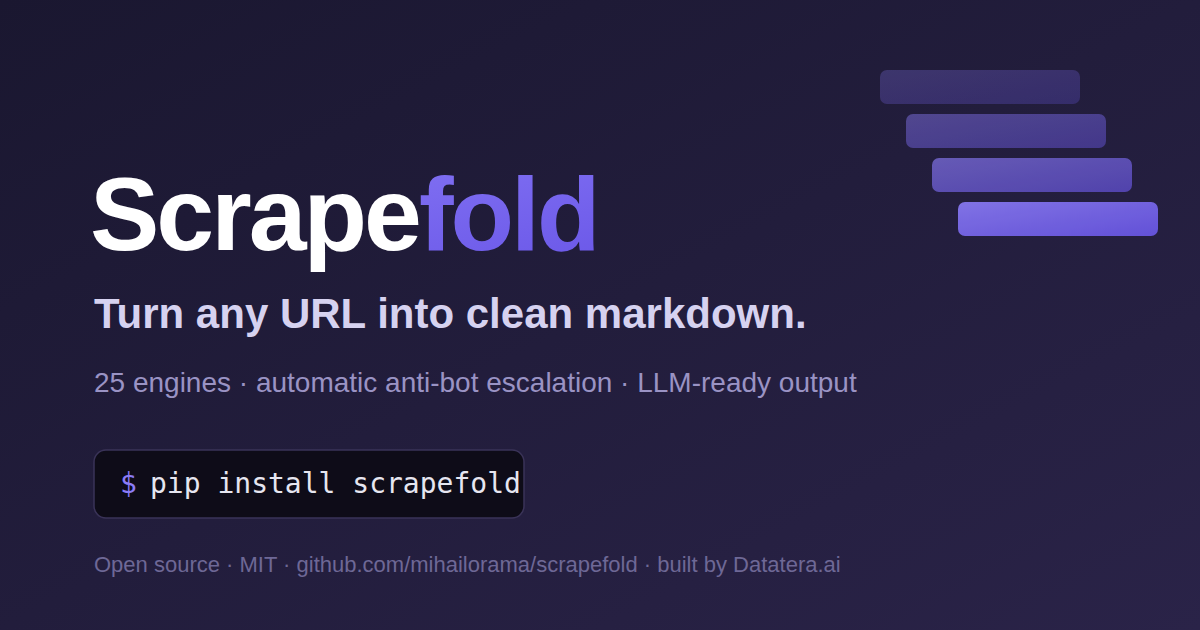
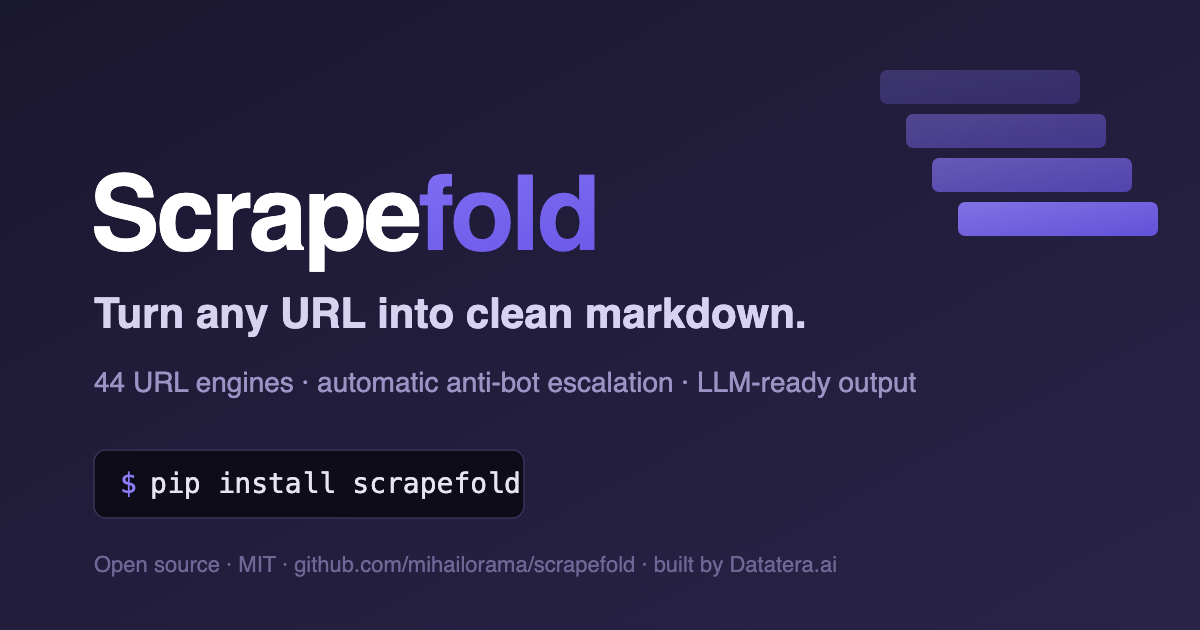
docs: state the real URL engine count (44) everywhere (SCRAPEFOLD-34)
scrapefold.com said 39 URL engines in its title, meta and hero and 42 in the
stats row; README, docs and llms.txt said 39 and AGENTS.md 43. The registry
(list_engine_names(), aliases excluded) has 44.

- All counts now read 44; landing grid gains pydoll, Camoufox, Scrapingdog
  dedicated and LinkedIn public so it lists all 44.
- Landing stats row: v0.12.0 -> v0.15.0, 12 -> 18 Enrichfold search engines
  (Enrichfold 0.9.0 registry).
- Social card SVG and PNG: 25 engines -> 44 URL engines.
- Smoke test ties every stated count, the grid and the landing version to the
  registry and __version__.

Claude-Session: https://claude.ai/code/session_01DuCvrUkUQ79exr9fVfTPQm

diff --git a/docs/index.html b/docs/index.html
@@ -4,19 +4,19 @@
 <meta charset="utf-8">
 <meta name="viewport" content="width=device-width, initial-scale=1">
 <title>Scrapefold — turn any URL into clean markdown</title>
-<meta name="description" content="One async Python interface over 39 URL engines, with automatic anti-bot escalation and LLM-ready markdown output. Search delegates to Enrichfold. Open source, MIT.">
+<meta name="description" content="One async Python interface over 44 URL engines, with automatic anti-bot escalation and LLM-ready markdown output. Search delegates to Enrichfold. Open source, MIT.">
 <link rel="icon" type="image/svg+xml" href="assets/favicon.svg">
 <link rel="canonical" href="https://scrapefold.com/">
 
 <!-- Open Graph / Twitter -->
 <meta property="og:type" content="website">
 <meta property="og:title" content="Scrapefold — turn any URL into clean markdown">
-<meta property="og:description" content="39 URL engines plus Enrichfold-backed search, with automatic anti-bot escalation and LLM-ready output.">
+<meta property="og:description" content="44 URL engines plus Enrichfold-backed search, with automatic anti-bot escalation and LLM-ready output.">
 <meta property="og:url" content="https://scrapefold.com/">
 <meta property="og:image" content="https://scrapefold.com/assets/social-card.png">
 <meta name="twitter:card" content="summary_large_image">
 <meta name="twitter:title" content="Scrapefold — turn any URL into clean markdown">
-<meta name="twitter:description" content="39 URL engines plus Enrichfold-backed search, with automatic anti-bot escalation and LLM-ready output.">
+<meta name="twitter:description" content="44 URL engines plus Enrichfold-backed search, with automatic anti-bot escalation and LLM-ready output.">
 <meta name="twitter:image" content="https://scrapefold.com/assets/social-card.png">
 
 <style>
@@ -213,7 +213,7 @@
 <header class="hero" id="top">
   <img class="logo" src="assets/logo-dark.svg" alt="Scrapefold">
   <h1>Turn any URL into clean markdown.</h1>
-  <p class="tag">One async Python interface over <strong>39 URL engines</strong> — with automatic anti-bot escalation and LLM-ready output. Search powered by Enrichfold. Open source, MIT.</p>
+  <p class="tag">One async Python interface over <strong>44 URL engines</strong> — with automatic anti-bot escalation and LLM-ready output. Search powered by Enrichfold. Open source, MIT.</p>
 
   <div class="agent-cta">
     <button class="btn btn-primary btn-lg" id="agentPrompt" title="Click to copy"
@@ -229,7 +229,7 @@
     </button>
   </div>
 
-  <p class="stats"><strong>v0.12.0</strong> · <strong>42 URL engines</strong> · <strong>12 search engines via Enrichfold</strong> · <strong>MIT</strong></p>
+  <p class="stats"><strong>v0.15.0</strong> · <strong>44 URL engines</strong> · <strong>18 search engines via Enrichfold</strong> · <strong>MIT</strong></p>
   <p class="hero-links"><a href="https://github.com/mihailorama/scrapefold">⭐ Star on GitHub</a> · <a href="https://pypi.org/project/scrapefold/">PyPI</a></p>
 
   <div class="hero-demo">
@@ -302,7 +302,7 @@ page = <span class="k">await</span> scrape(hits[0].url, ScrapeOptions(engines=("
 
 <section id="engines">
   <div class="wrap">
-    <h2>39 URL engines, one interface</h2>
+    <h2>44 URL engines, one interface</h2>
     <p class="lead">Local engines are free and fast; SaaS engines add premium proxies and stealth. The router picks the cheapest tier that works. Ratings: ★★★ excellent · ★★☆ good · ★☆☆ basic.</p>
     <div class="engines">
       <div class="engine"><span class="name">requests</span> <span class="type">local</span><div class="caps">Static HTML · ultra-fast · <span class="stars">★★★</span></div></div>
@@ -311,6 +311,8 @@ page = <span class="k">await</span> scrape(hits[0].url, ScrapeOptions(engines=("
       <div class="engine"><span class="name">crawl4ai</span> <span class="type">local</span><div class="caps">JS render · native markdown · <span class="stars">★★★</span></div></div>
       <div class="engine"><span class="name">PixelRAG</span> <span class="type">local · visual</span><div class="caps">pixelshot + VLM/OCR reader · <span class="stars">★★★</span></div></div>
       <div class="engine"><span class="name">cloakbrowser</span> <span class="type">local</span><div class="caps">Anti-fingerprint browser · <span class="stars">★★★</span></div></div>
+      <div class="engine"><span class="name">pydoll</span> <span class="type">local</span><div class="caps">Stealth Chromium over CDP · clears Turnstile · <span class="stars">★★★</span></div></div>
+      <div class="engine"><span class="name">Camoufox</span> <span class="type">local</span><div class="caps">Anti-detect Firefox · source-level fingerprint · <span class="stars">★★★</span></div></div>
       <div class="engine"><span class="name">Lightpanda</span> <span class="type">local</span><div class="caps">~1 s JS render · no stealth · <span class="stars">★★☆</span></div></div>
       <div class="engine"><span class="name">Obscura</span> <span class="type">local</span><div class="caps">Rust headless browser · Chrome fingerprint · <span class="stars">★★☆</span></div></div>
       <div class="engine"><span class="name">selenium</span> <span class="type">local</span><div class="caps">Classic JS rendering · <span class="stars">★★☆</span></div></div>
@@ -321,6 +323,7 @@ page = <span class="k">await</span> scrape(hits[0].url, ScrapeOptions(engines=("
       <div class="engine"><span class="name">Bright Data</span> <span class="type">saas</span><div class="caps">Web Unlocker · last-resort unblocking · <span class="stars">★★★</span></div></div>
       <div class="engine"><span class="name">ScrapingBee</span> <span class="type">saas</span><div class="caps">Premium proxy + JS · <span class="stars">★★★</span></div></div>
       <div class="engine"><span class="name">Scrapingdog</span> <span class="type">saas</span><div class="caps">Affordable proxy + browser · <span class="stars">★★★</span></div></div>
+      <div class="engine"><span class="name">Scrapingdog dedicated</span> <span class="type">saas · site</span><div class="caps">LinkedIn, Amazon, Twitter endpoints → JSON</div></div>
       <div class="engine"><span class="name">ScraperAPI</span> <span class="type">saas</span><div class="caps">Proxy + JS render · native markdown · AI Parser → JSON · <span class="stars">★★★</span></div></div>
       <div class="engine"><span class="name">Exa</span> <span class="type">saas · search</span><div class="caps">Search · Contents · Answer · Agent · <span class="stars">★★★</span></div></div>
       <div class="engine"><span class="name">Linkup</span> <span class="type">saas · fetch</span><div class="caps">Rendered page → markdown</div></div>
@@ -342,6 +345,7 @@ page = <span class="k">await</span> scrape(hits[0].url, ScrapeOptions(engines=("
       <div class="engine"><span class="name">LabelUp</span> <span class="type">saas · social</span><div class="caps">Cross-platform stats · <span class="stars">★★★</span></div></div>
       <div class="engine"><span class="name">Apify Actor</span> <span class="type">saas · site</span><div class="caps">Universal social actors · <span class="stars">★★☆</span></div></div>
       <div class="engine"><span class="name">Apify (LinkedIn)</span> <span class="type">saas · site</span><div class="caps">Vendor-managed actor runs · <span class="stars">★★☆</span></div></div>
+      <div class="engine"><span class="name">LinkedIn public</span> <span class="type">local · site</span><div class="caps">Keyless LinkedIn profile/company/job → JSON-LD</div></div>
       <div class="engine"><span class="name">Outscraper</span> <span class="type">saas · site</span><div class="caps">Niche aggregator scrapes · <span class="stars">★★☆</span></div></div>
       <div class="engine"><span class="name">EnrichLayer</span> <span class="type">saas · site</span><div class="caps">LinkedIn person/company enrichment JSON · <span class="stars">★★☆</span></div></div>
       <div class="engine"><span class="name">Wayback</span> <span class="type">local · fallback</span><div class="caps">Dead-link recovery via archive.org, honestly marked · <span class="stars">★★☆</span></div></div>

diff --git a/tests/test_smoke.py b/tests/test_smoke.py
@@ -154,3 +154,20 @@ def test_dist_metadata_version_matches_dunder_version() -> None:
     assert scrapefold.__version__ == version("scrapefold"), (
         f"drift: __init__.py={scrapefold.__version__!r} metadata={version('scrapefold')!r}"
     )
+
+
+def test_published_engine_counts_match_registry() -> None:
+    """Every "N URL engines" on the site, README and llms.txt matches the registry
+    (SCRAPEFOLD-34: the landing once said 39 and 42 at the same time)."""
+    import re
+    from pathlib import Path
+
+    root = Path(__file__).resolve().parent.parent
+    expected = len(list_engine_names())
+    for rel in ("README.md", "docs/README.md", "docs/index.html", "docs/llms.txt"):
+        counts = {int(n) for n in re.findall(r"(\d+) URL engines", (root / rel).read_text())}
+        assert counts == {expected}, f"{rel}: {counts} != registry {expected}"
+    page = (root / "docs/index.html").read_text()
+    grid = page[page.index('id="engines"') : page.index("</section>", page.index('id="engines"'))]
+    assert grid.count('class="engine"') == expected, "landing engine grid out of sync"
+    assert f"<strong>v{scrapefold.__version__}</strong>" in page, "landing version is stale"

diff --git a/README.md b/README.md
@@ -4,7 +4,7 @@
 
 <p align="center">
   <strong>Turn any URL into clean markdown.</strong><br>
-  One async Python interface over 39 URL engines — with automatic anti-bot escalation and LLM-ready output. Search delegates to Enrichfold.
+  One async Python interface over 44 URL engines — with automatic anti-bot escalation and LLM-ready output. Search delegates to Enrichfold.
 </p>
 
 <p align="center">
@@ -22,7 +22,7 @@
 </p>
 
 <p align="center">
-  <strong>39 URL engines</strong> · <strong>5 anti-bot stacks handled</strong> (Cloudflare · Datadome · PerimeterX · Akamai · AWS WAF) · <strong>MIT</strong>
+  <strong>44 URL engines</strong> · <strong>5 anti-bot stacks handled</strong> (Cloudflare · Datadome · PerimeterX · Akamai · AWS WAF) · <strong>MIT</strong>
 </p>
 
 > ⭐ **If Scrapefold saves you a vendor rewrite, [star the repo](https://github.com/mihailorama/scrapefold) — it's the #1 way to help others find it.**
@@ -618,7 +618,7 @@ Sorted cheapest-first. The **cost** column is scrapefold's internal per-1000-cal
 
 ### SERP APIs
 
-Scrapefold's public `search()` delegates to Enrichfold's 12 search engines.
+Scrapefold's public `search()` delegates to Enrichfold's 18 search engines.
 The table below compares specialist SERP APIs that are not part of that
 registry; several URL vendors also expose separate SERP endpoints.
 

diff --git a/docs/README.md b/docs/README.md
@@ -10,7 +10,7 @@ related:
 
 # scrapefold docs
 
-Unified Python library for web scraping — single URL or whole-site → markdown, with stealth, JS rendering, visual screenshot capture, and LLM-ready output. Wraps 39 URL engines across vendor APIs, local stealth browsers, visual capture tools, search indexes, and a baseline `requests` engine behind one async interface. Query search delegates to Enrichfold.
+Unified Python library for web scraping — single URL or whole-site → markdown, with stealth, JS rendering, visual screenshot capture, and LLM-ready output. Wraps 44 URL engines across vendor APIs, local stealth browsers, visual capture tools, search indexes, and a baseline `requests` engine behind one async interface. Query search delegates to Enrichfold.
 
 ## Where to look
 

diff --git a/CHANGELOG.md b/CHANGELOG.md
@@ -6,6 +6,14 @@ Format follows [Keep a Changelog](https://keepachangelog.com/en/1.1.0/). Version
 
 ## [Unreleased]
 
+### Fixed
+
+- README, scrapefold.com and `llms.txt` stated 39, 42 or 43 URL engines; the
+  registry has 44. All counts now say 44, the landing engine grid lists all 44,
+  the landing version reads v0.15.0 and the search count reads Enrichfold's 18.
+  A smoke test fails when a stated count drifts from `list_engine_names()`
+  (SCRAPEFOLD-34).
+
 ## [0.15.0] - 2026-11-16
 
 ### Added

diff --git a/AGENTS.md b/AGENTS.md
@@ -6,7 +6,7 @@ This file mirrors [CLAUDE.md](CLAUDE.md) — pointers, not content. Read the doc
 
 ## What this project is
 
-`scrapefold` — unified Python library for web scraping with one async API across 43 engines and a built-in anti-bot escalation ladder.
+`scrapefold` — unified Python library for web scraping with one async API across 44 engines and a built-in anti-bot escalation ladder.
 
 ## Start here
 
